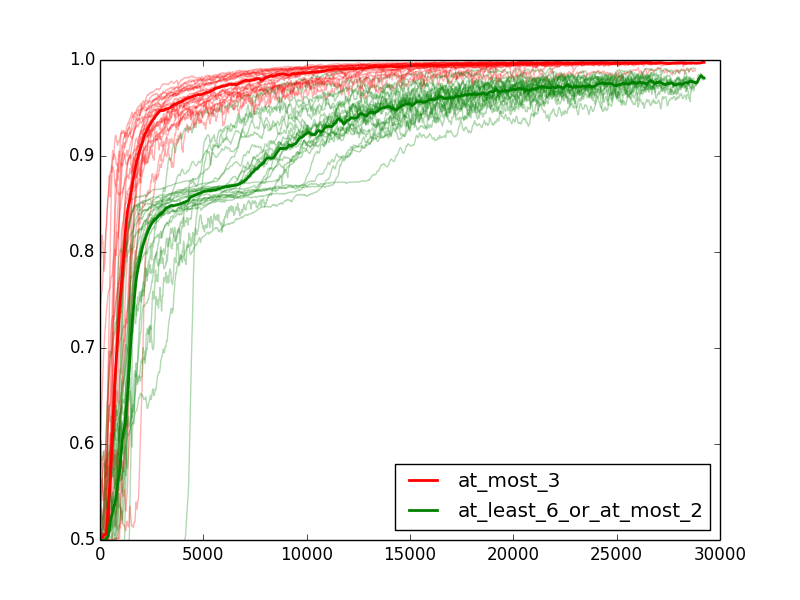
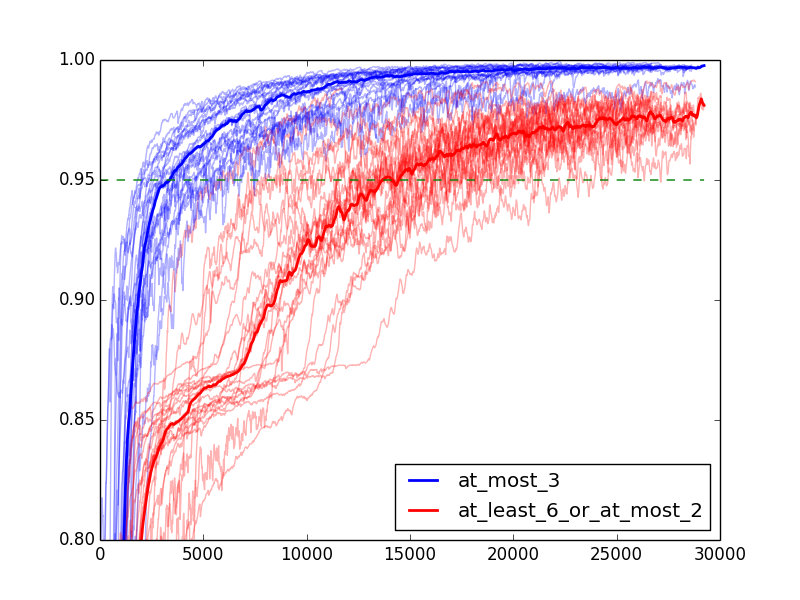
remade accuracy plots

diff --git a/analysis.py b/analysis.py
@@ -22,7 +22,7 @@ from matplotlib import pyplot as plt
 import util
 
 
-COLORS = ['red', 'green']
+COLORS = ['blue', 'red']
 
 
 def experiment_analysis(path, quants, trials=range(30), plots=True):
@@ -44,7 +44,7 @@ def experiment_analysis(path, quants, trials=range(30), plots=True):
         # make plots
         make_boxplots(convergence_points, quants)
         make_barplots(convergence_points, quants)
-        make_plot(data, quants, ylim=(0.5, 1))
+        make_plot(data, quants, ylim=(0.8, 1))
 
     print stats.ttest_rel(convergence_points[quants[0]],
             convergence_points[quants[1]])
@@ -162,7 +162,7 @@ def convergence_point(arr, threshold=0.95):
     return first_above_threshold(forward_means(arr), threshold)
 
 
-def make_plot(data, quants, ylim=None):
+def make_plot(data, quants, ylim=None, threshold=0.95):
     """Makes a line plot of the accuracy of trials by quantifier, color coded,
     and with the medians also plotted.
 
@@ -192,6 +192,10 @@ def make_plot(data, quants, ylim=None):
                 COLORS[idx],
                 label=quants[idx],
                 linewidth=2)
+
+    max_x = max([len(ls) for ls in medians_by_quant])
+    x = range(0, 10*max_x, 10)
+    plt.plot(x, [threshold for _ in range(max_x)], linestyle='dashed', color='green')
 
     if ylim:
         plt.ylim(ylim)
